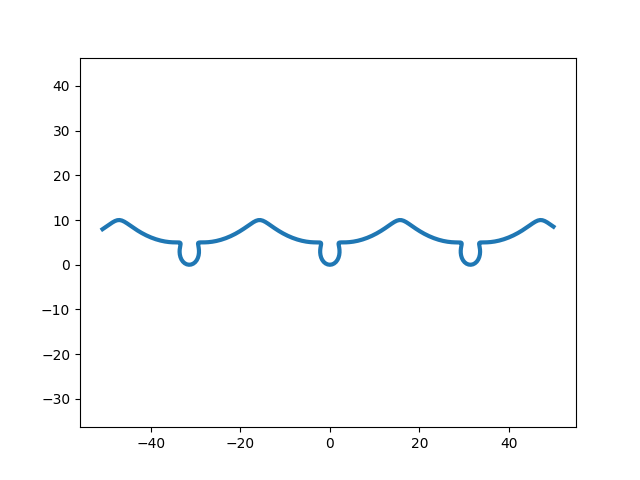
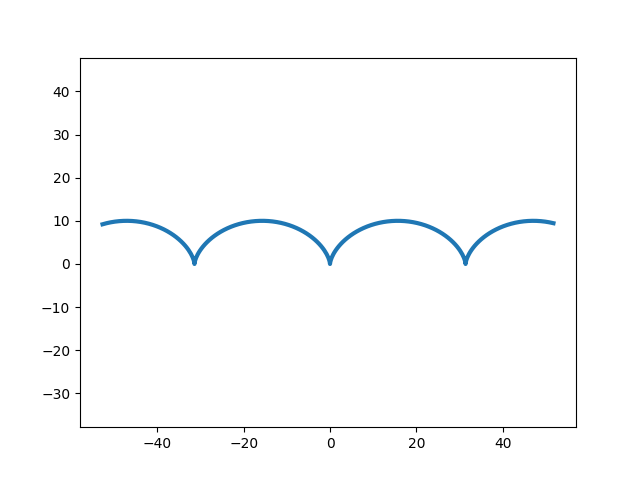
27.12

diff --git a/lab_7_task_3.py b/lab_7_task_3.py
@@ -1,0 +1,40 @@
+import matplotlib.pyplot as plt
+import numpy as np
+import matplotlib.animation as animation
+
+fig, ax = plt.subplots()
+btf, = plt.plot([], [], '-', color='r')
+
+def circle_move(t):
+    x = np.sin(t) * (np.exp(np.cos(t)) - 2*np.cos(4*t) + np.sin(t//12)**5)
+    y = np.cos(t) * (np.exp(np.cos(t)) - 2*np.cos(4*t) + np.sin(t//12)**5)
+    return x, y
+
+plt.axis('equal')
+ax.set_xlim(-5, 5)
+ax.set_ylim(-5, 5)
+
+def animate(i):
+    btf.set_data(circle_move(t=i))
+
+ani = animation.FuncAnimation(fig, animate, frames=np.arange(0, 2*np.pi, 0.1), interval=30)
+ani.save('butterfly.gif')
+'''
+
+fig, ax = plt.subplots()
+hrt, = plt.plot([], [], color='r')
+
+def circle_move(t):
+    x = 16 * np.sin(t)**3
+    y = 13*np.cos(t) - 5*np.cos(2*t) - 2*np.cos(3*t) - np.cos(4*t)
+    return x, y
+
+plt.axis('equal')
+ax.set_xlim(-20, 20)
+ax.set_ylim(-20, 20)
+
+def animate(i):
+    hrt.set_data(circle_move(t=np.arange(0, 2*np.pi, 0.1)))
+ani = animation.FuncAnimation(fig, animate, frames = 100, interval=30)
+ani.save('heart.gif')
+'''

diff --git a/lab_7_task_1.py b/lab_7_task_1.py
@@ -1,23 +1,23 @@
 import matplotlib.pyplot as plt
 import numpy as np
 
-'''
+
 t = np.arange(-10, 10, 0.1)
 R = 5
 
-x = R * (t - np.sin(t)**3)
-y = R * (1 - np.cos(t)**3)
+x = R * (t - np.sin(t))
+y = R * (1 - np.cos(t))
 
 plt.plot(x, y, '-', lw = 3)
 plt.axis('equal')
 plt.savefig('task1.png')
-'''
 
-t = np.arange(-10, 10, 0.1)
-R = 3
 
-x = R * np.cos(t)**3
-y = R * np.sin(t)**3
+t1 = np.arange(-10, 10, 0.1)
+R1 = 3
+
+x = R1 * np.cos(t1)**3
+y = R1 * np.sin(t1)**3
 
 plt.plot(x, y, '-', lw = 3)
 plt.axis('equal')

diff --git a/lab_7_task_4.py b/lab_7_task_4.py
@@ -1,0 +1,14 @@
+import matplotlib.pyplot as plt
+import numpy as np
+import matplotlib.animation as animation
+
+fig, ax = plt.subplots()
+ani_obj, = plt.plot([], [], color='r')
+
+def circle_move(xn1, yn1, c, d):
+    xn = xn1**2 - yn1**2 +c
+    yn = 2*xn1 * yn1+ d
+    return xn, yn
+plt.axis('equal')
+
+
